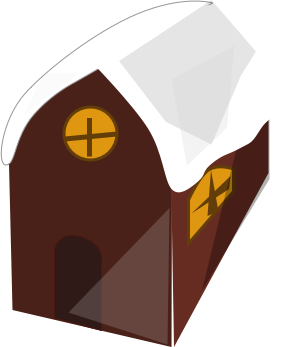
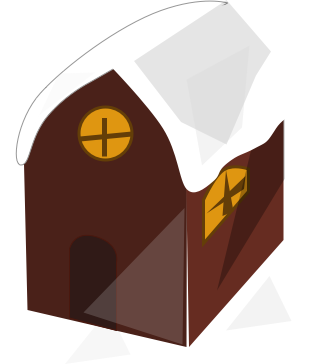
better house

diff --git a/public/js/hitRunMan/sprites/house.js b/public/js/hitRunMan/sprites/house.js
@@ -16,7 +16,7 @@ var houseGenerator = function(random) {
   });
   house.progress = 0;
   house.render = function () {
-    this.progress += 0.01 * (foot.speed / 30);
+    this.progress += 0.01 * (foot.speed / 3);
     house.updateWithProgress(this.progress)
     if (this.progress >= 1.5) {
       this.parent.removeChild(this);
@@ -25,8 +25,8 @@ var houseGenerator = function(random) {
   house.updateWithProgress = function(progress) {
     this.progress = progress
     house.x = 580 - 400 * this.progress * this.progress;
-    house.y = 350 + 400 * (1.2 - 0.05 * this.progress) * this.progress * this.progress;
-    house.scale.x = this.progress
+    house.y = 360 + 400 * (1.2 - 0.05 * this.progress) * this.progress * this.progress;
+    house.scale.x = this.progress * 1.1
     house.scale.y = this.progress
   }
   return house;

diff --git a/public/js/hitRunMan/sprites/foot.js b/public/js/hitRunMan/sprites/foot.js
@@ -71,7 +71,7 @@ foot.render = function () {
     if(!(--renderCount)){
         renderCount = foot.renderMaxNum
         //移动速度，基本0.2,要非常快才有0.3。
-        this.speed = foot.footNum/renderCount * 100;//20;
+        this.speed = foot.footNum/renderCount * 10;//20;
         foot.footNum = 0;
     }
 };
